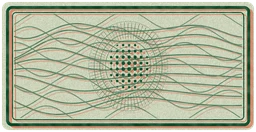
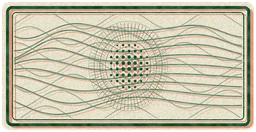
fix(client): second finish-review round: frameless tree ground, one orbit arc, lighter bill backs
- The tree stands on a feathered frosted pool instead of a bordered pane,
  so the art is never boxed into an image card (regression a).
- The orbit is one open arc from the canopy over the top to the total,
  drawn above the tree and clear of the statement card (regression b).
- The printed bill back is lifted (7% emerald wash, lighter engraving) so it
  never reads as a dark slab on the night theme; the flip floor is 50%, so
  no bill goes edge-on to a sliver (regression c, fix 1).

Claude-Session: https://claude.ai/code/session_0118qDECiBLjjpML8B51rTAM

diff --git a/client/src/styles/screens/dashboard.css b/client/src/styles/screens/dashboard.css
@@ -40,29 +40,33 @@
   align-items: center;
 }
 
-/* The tree stands in a frosted ivory pane: CHROME tier glass (SW-ADR-154),
-   carrying the risograph grain the poster is printed with. Never a .card. */
+/* The tree stands on a feathered pool of frosted glass: CHROME tier
+   (SW-ADR-154), carrying the risograph grain, and with no edge, so the
+   poster's art is never boxed into an image card. Never a .card. */
 .dash-tree {
   position: relative;
   z-index: 1;
   width: min(100%, 560px);
   justify-self: center;
-  padding: var(--sw-space-4) var(--sw-space-4) var(--sw-space-2);
-  border-radius: var(--sw-radius-xl);
-  background: var(--sw-glass);
-  border: 1px solid var(--sw-glass-border);
-  box-shadow: var(--sw-highlight), var(--sw-shadow-md);
-  -webkit-backdrop-filter: blur(var(--sw-blur-md)) saturate(var(--sw-glass-saturate));
-  backdrop-filter: blur(var(--sw-blur-md)) saturate(var(--sw-glass-saturate));
-  overflow: hidden;
   animation: sw-rise var(--sw-dur-hero) var(--sw-ease-out) backwards;
 }
+.dash-tree::before,
 .dash-tree::after {
   content: "";
   position: absolute;
-  inset: 0;
-  z-index: 4;
+  inset: 4% 2% 2%;
   pointer-events: none;
+  -webkit-mask-image: radial-gradient(ellipse 50% 50% at 50% 50%, rgb(0 0 0) 40%, transparent 72%);
+  mask-image: radial-gradient(ellipse 50% 50% at 50% 50%, rgb(0 0 0) 40%, transparent 72%);
+}
+.dash-tree::before {
+  z-index: -1;
+  background: var(--sw-glass);
+  -webkit-backdrop-filter: blur(var(--sw-blur-md)) saturate(var(--sw-glass-saturate));
+  backdrop-filter: blur(var(--sw-blur-md)) saturate(var(--sw-glass-saturate));
+}
+.dash-tree::after {
+  z-index: 4;
   background-image: var(--sw-grain);
   opacity: calc(var(--sw-grain-opacity) * 2.4);
   mix-blend-mode: multiply;
@@ -70,25 +74,25 @@
 
 /* The poster's orbit, from the canopy across to the total, and two sparks
    beside the figure. Wide panes only (section 9 hides them on narrower ones). */
+/* One open arc, above the tree and clear of the statement card: it leaves
+   the canopy, sweeps over the top and lands beside the total. */
 .dash-orbit {
   position: absolute;
-  inset: 2% 0 4%;
+  inset: 0 0 auto 0;
   width: 100%;
-  height: 94%;
-  z-index: 0;
+  height: 46%;
+  z-index: 2;
   pointer-events: none;
   overflow: visible;
 }
-.dash-orbit ellipse {
+.dash-orbit path {
   fill: none;
   stroke: var(--sw-brand-vermilion);
-  stroke-width: 1.4;
-  stroke-dasharray: 2 9;
+  stroke-width: 1.6;
+  stroke-dasharray: 2 8;
+  stroke-linecap: round;
   vector-effect: non-scaling-stroke;
-  opacity: 0.7;
-  transform: rotate(-5deg);
-  transform-origin: 52% 48%;
-  transform-box: view-box;
+  opacity: 0.8;
 }
 .dash-sparks {
   position: absolute;

diff --git a/client/src/screens/Dashboard.jsx b/client/src/screens/Dashboard.jsx
@@ -303,9 +303,9 @@ export default function Dashboard({ principal, draft, onDraft }) {
             <section className="dash-hero" aria-label="Total">
               {/* The poster's orbit: one line from the canopy across to the
                   total, and two sparks beside it. Decoration, wide panes only. */}
-              <svg className="dash-orbit" viewBox="0 0 1000 400" preserveAspectRatio="none"
+              <svg className="dash-orbit" viewBox="0 0 1000 300" preserveAspectRatio="none"
                    aria-hidden="true" focusable="false">
-                <ellipse cx="520" cy="190" rx="470" ry="120" />
+                <path d="M120 250 C 260 40, 560 -10, 760 70 S 900 150, 905 175" />
               </svg>
               <svg className="dash-sparks" viewBox="0 0 100 60" aria-hidden="true" focusable="false">
                 <path d="M14 4L16 14L26 16L16 18L14 28L12 18L2 16L12 14Z" />

diff --git a/client/src/components/MoneyTree.jsx b/client/src/components/MoneyTree.jsx
@@ -102,9 +102,9 @@ function drawBill(ctx, b, pal, sprites) {
   ctx.translate(b.x, b.y)
   ctx.rotate(b.rot)
   // The paper tumbling: a cosine on one axis reads as a sheet turning over.
-  // Never thinner than a third, so an edge-on bill never becomes a sliver.
+  // Never thinner than half, so an edge-on bill never becomes a sliver.
   const flip = Math.cos(b.phase)
-  ctx.scale(1, Math.max(0.35, Math.abs(flip)) * Math.sign(flip || 1))
+  ctx.scale(1, Math.max(0.5, Math.abs(flip)) * Math.sign(flip || 1))
   const front = flip >= 0
   const sprite = front ? sprites.front : sprites.back
 
